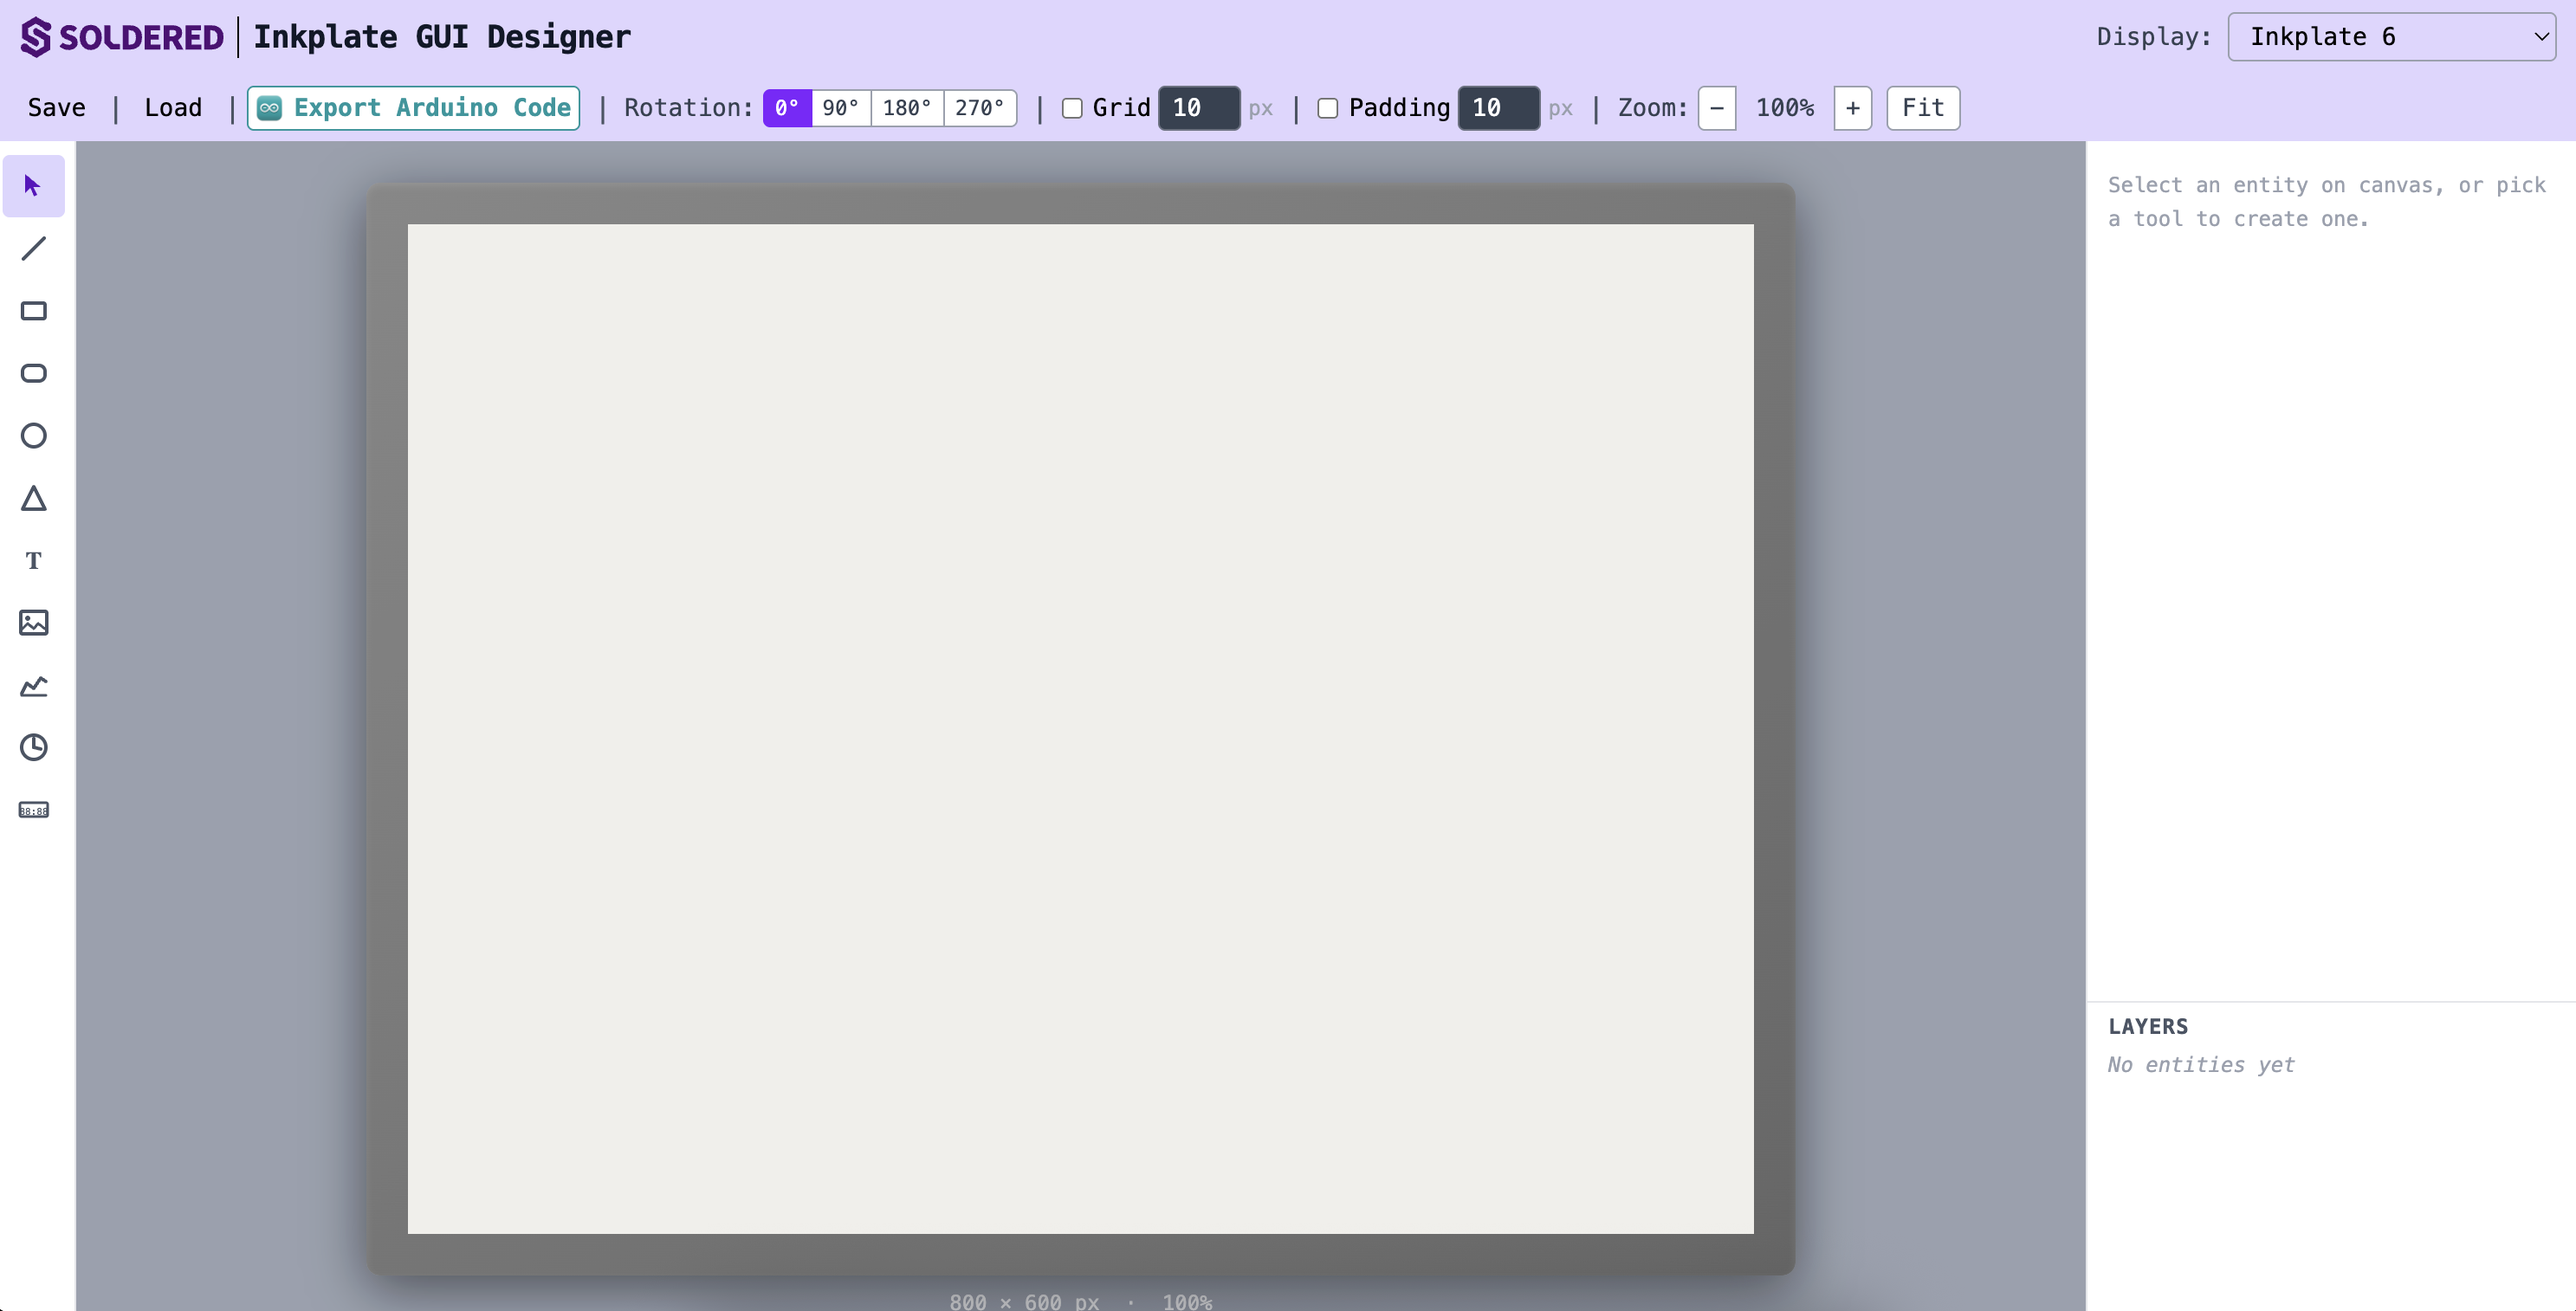
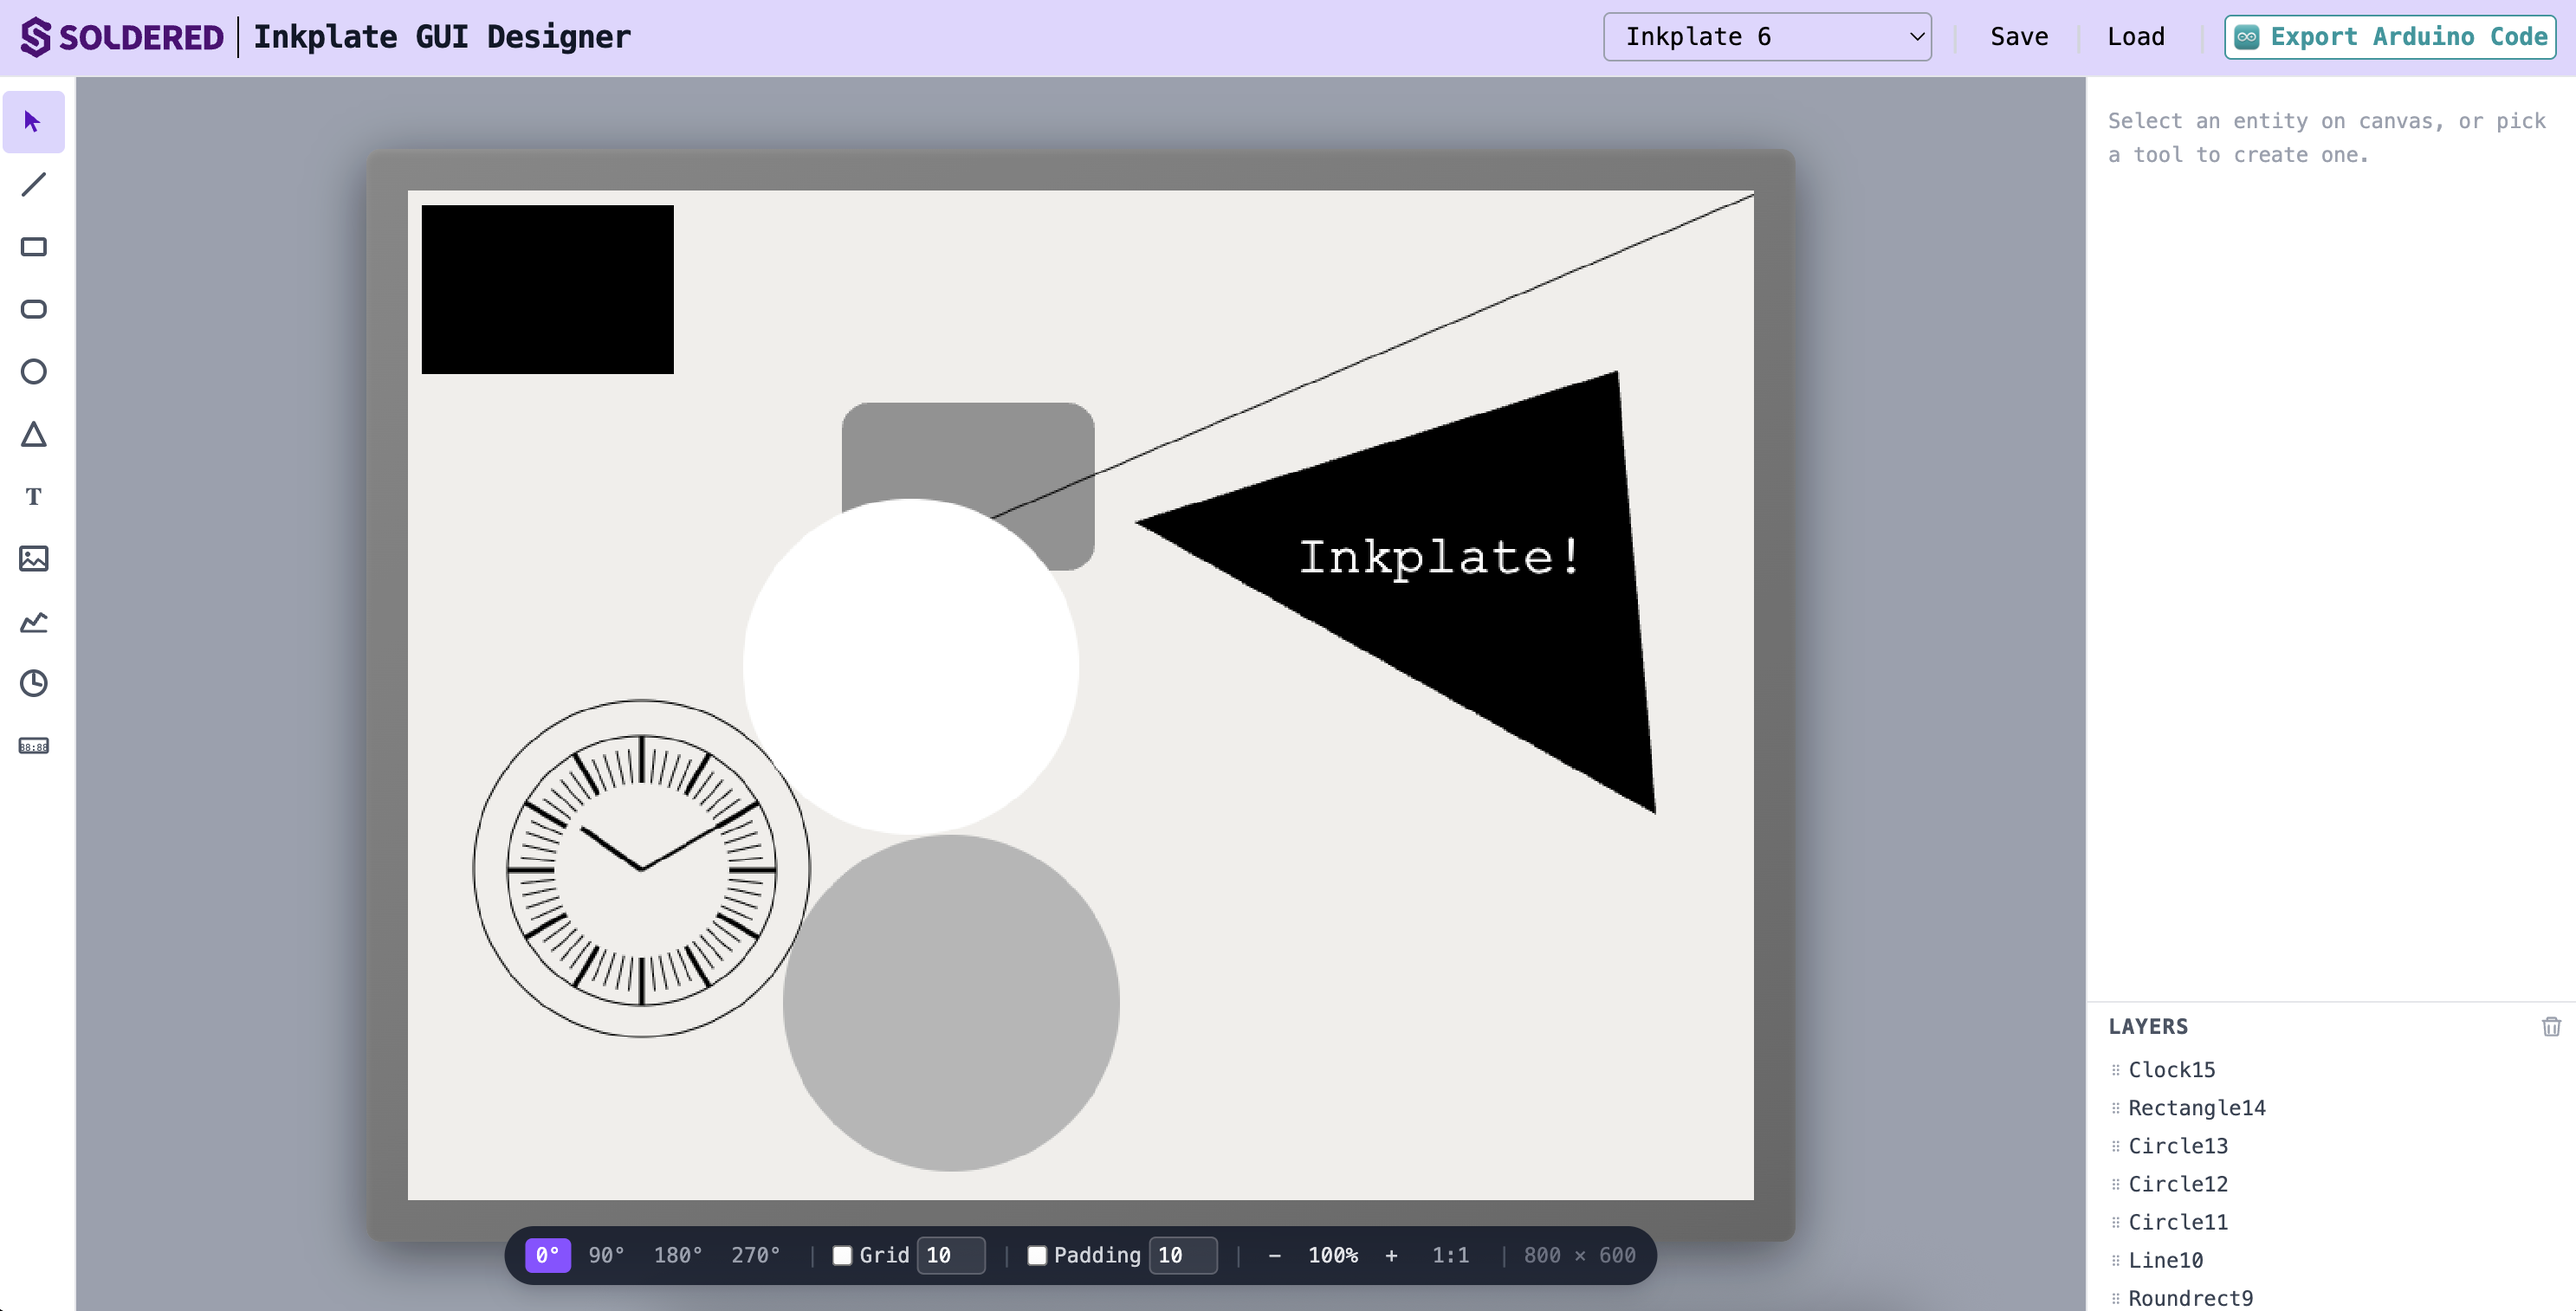
New images

diff --git a/README.md b/README.md
@@ -2,28 +2,27 @@
 
 A visual GUI designer for [Inkplate](https://soldered.com/inkplate/) e-paper displays. Draw your layout in the browser, export ready-to-compile Arduino code.
 
-![Empty canvas with toolbar and layer panel](demo-1.png)
-![Canvas with shapes and active grid](demo-2.png)
-![Entity selected — properties in right panel](demo-3.png)
-![Inkplate 6COLOR with 7-color palette active](demo-4.png)
+![](demo-1.png)
+![](demo-2.png)
+![](demo-3.png)
 
 ## Supported boards
 
-| Board | Resolution | Color mode |
-|---|---|---|
-| Inkplate 2 | 212 × 104 | Black / White / Red |
-| Inkplate 4 | 400 × 300 | Black / White / Red |
-| Inkplate 4TEMPERA | 600 × 600 | 8 grayscale levels |
-| Inkplate 5 | 960 × 540 | 8 grayscale levels |
-| Inkplate 5V2 | 1280 × 720 | 8 grayscale levels |
-| Inkplate 6 | 800 × 600 | 8 grayscale levels |
-| Inkplate 6COLOR | 600 × 448 | 7 colors |
-| Inkplate 6FLICK | 1024 × 758 | 8 grayscale levels |
-| Inkplate 6MOTION | 1024 × 758 | 8 grayscale levels |
-| Inkplate 6PLUS | 1024 × 758 | 8 grayscale levels |
-| Inkplate 7 | 640 × 384 | Black / White / Red |
-| Inkplate 10 | 1200 × 825 | 8 grayscale levels |
-| Inkplate 13SPECTRA | 1600 × 1200 | 6 colors |
+| Board              | Resolution  | Color mode          |
+| ------------------ | ----------- | ------------------- |
+| Inkplate 2         | 212 × 104   | Black / White / Red |
+| Inkplate 4         | 400 × 300   | Black / White / Red |
+| Inkplate 4TEMPERA  | 600 × 600   | 8 grayscale levels  |
+| Inkplate 5         | 960 × 540   | 8 grayscale levels  |
+| Inkplate 5V2       | 1280 × 720  | 8 grayscale levels  |
+| Inkplate 6         | 800 × 600   | 8 grayscale levels  |
+| Inkplate 6COLOR    | 600 × 448   | 7 colors            |
+| Inkplate 6FLICK    | 1024 × 758  | 8 grayscale levels  |
+| Inkplate 6MOTION   | 1024 × 758  | 8 grayscale levels  |
+| Inkplate 6PLUS     | 1024 × 758  | 8 grayscale levels  |
+| Inkplate 7         | 640 × 384   | Black / White / Red |
+| Inkplate 10        | 1200 × 825  | 8 grayscale levels  |
+| Inkplate 13SPECTRA | 1600 × 1200 | 6 colors            |
 
 The color palette in the toolbar updates automatically based on the selected board.
 
